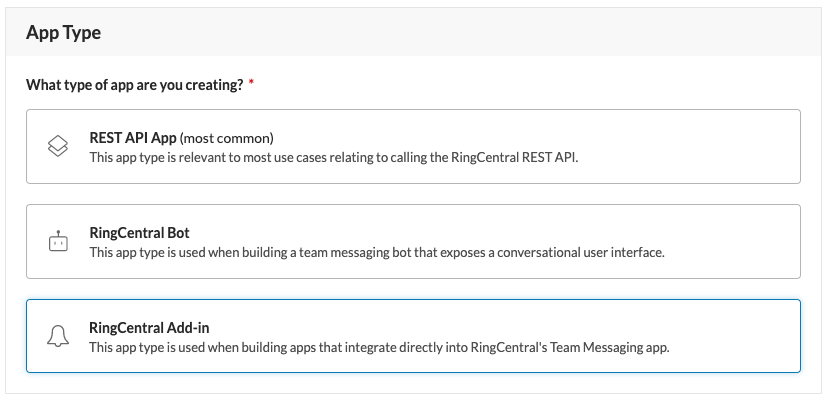
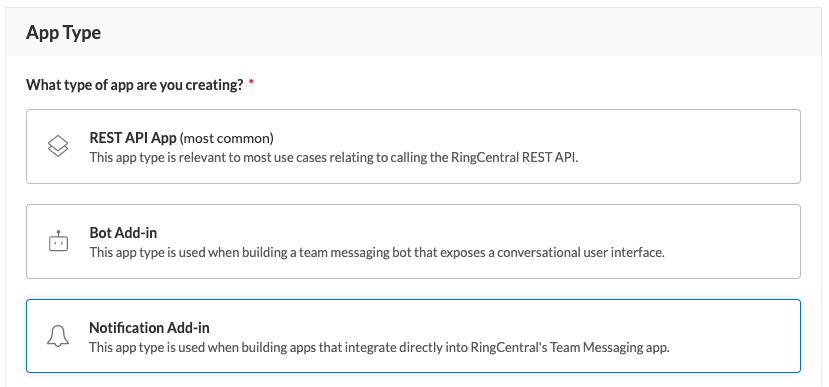
Clarified language around notification add-ins, and updated screenshots

diff --git a/docs/team-messaging/add-ins/creation.md b/docs/team-messaging/add-ins/creation.md
@@ -1,22 +1,25 @@
-# Building a RingCentral Add-in
+# Building a RingCentral Notification Add-in
 
-A RingCentral Add-in is a specialized app type intended to help developers deliver messages to the teams into which these apps are installed, in response to events and triggers that happen outside of RingCentral.
+!!! alert "Notification add-ins currently in BETA"
+    There are some issues currently impacting the developer experience around the creation of notification add-ins. Specifically, it is difficult to install add-ins into the Developer sandbox. Therefore, we recommend waiting to begin development until October 28, 2021 when developers will be able to install add-ins via the Developer Console. 
 
-A simple example of an add-in that most developers can quickly grok is the Github app that posts a message to team whenever a pull request is submitted to a github respository.
+A RingCentral notification add-in is a specialized app type intended to help developers deliver messages to the teams into which these apps are installed, in response to events and triggers that happen outside of RingCentral.
 
-## Add-in features
+A simple example of a notification add-in that most developers can quickly grok is the Github app that posts a message to team whenever a pull request is submitted to a github respository.
 
-1. Add-ins are promoted directly within RingCentral's desktop client to help customers find and install them. 
-2. Add-ins optionally post interactive message elements allowing users to take action directly on a message without ever having to leave the RingCentral app. 
-3. Add-ins can optionally provide users with the means to install the app from within the RingCentral desktop client via an embedded iframe.
+## Notification add-in features
 
-## Creating an add-in
+1. Notification add-ins are promoted directly within RingCentral's desktop client to help customers find and install them. 
+2. Notification add-ins optionally post interactive message elements allowing users to take action directly on a message without ever having to leave the RingCentral app. 
+3. Notification add-ins can optionally provide users with the means to install the app from within the RingCentral desktop client via an embedded iframe.
 
-When creating an app, first select the "RingCentral Add-in" app type. 
+## Creating a notification add-in
+
+When creating an app, first select the "Notification add-in" app type. 
 
 ![Add-in app type](./addin-app-type.png)
 
-Creating an add-in is identical in most respects to [creating an app](../../../basics/create-app/) of any other type. Add-ins do however have a few additional fields that need to be populated by the developer in order to deliver their functionality as designed and intended. 
+Creating a notification add-in is identical in most respects to [creating an app](../../../basics/create-app/) of any other type. Notification add-ins do however have a few additional fields that need to be populated by the developer in order to deliver their functionality as designed and intended. 
 
 ### App preferences
 
